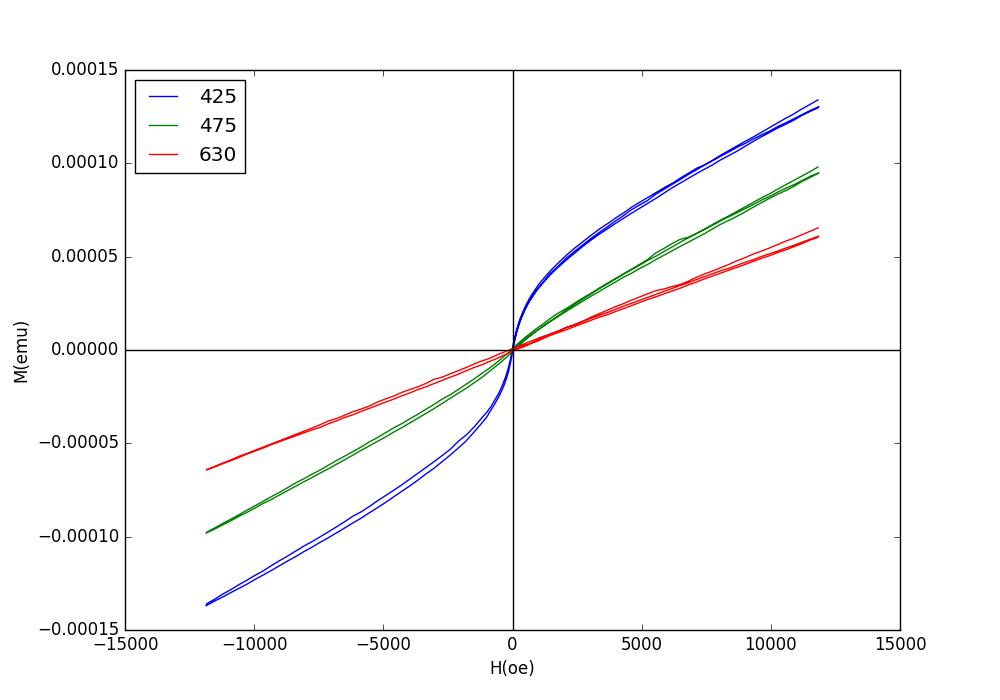
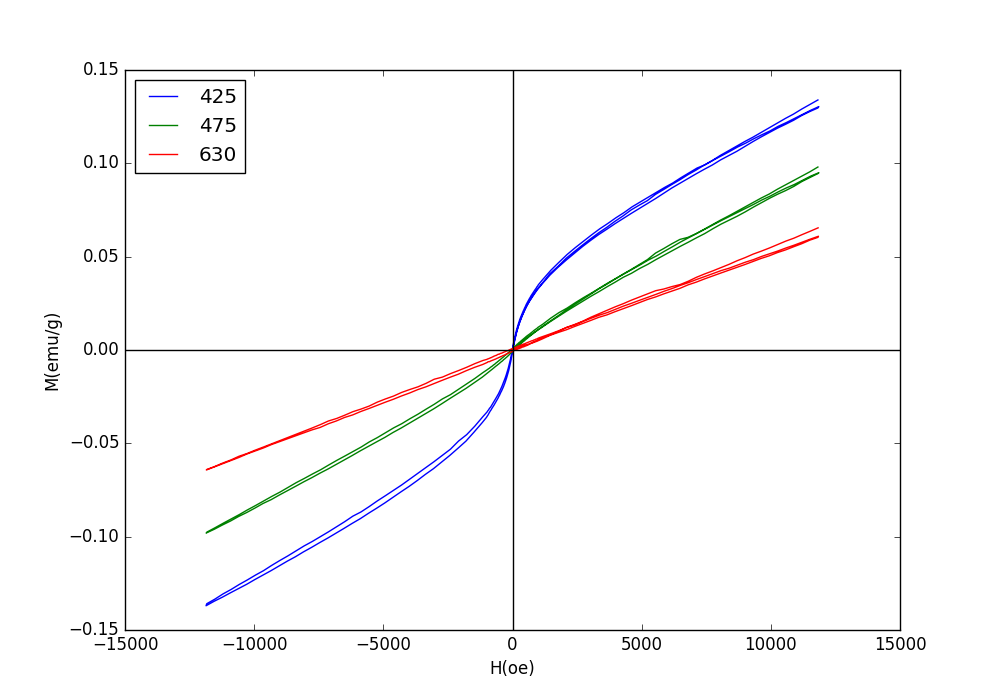
Arreglo de masa y adición de grafica de volores importes para las mediciones iniciales

diff --git a/Mediciones iniciales/analisis.py b/Mediciones iniciales/analisis.py
@@ -4,9 +4,10 @@ import matplotlib.pyplot as plt
 from sklearn.linear_model import LinearRegression
 
 #Masa en mg
-m=np.array([50.7,50.2,43.2])
+m=np.array([50.7,50.2,43.2])*0.001
 
 tem=np.array(['425','475','630'])
+temN=np.array([425,475,630])
 nomMedicion1= 'Data/BFO_'
 nomMedicion2 ='_SV_300K_MvsH_011018.txt'
 
@@ -29,7 +30,8 @@ def calPendiente(field, momentum):
 
 #Hallamos la coercitividad
 def calCoercitividad(field, momentum):
-	momentumTem = np.abs(momentum)
+	#Quitamos los primeros datos para no considerar la liena inicial
+	momentumTem = np.abs(momentum[20:])
 	pos1 = np.argmin(momentumTem)
 	momentumTem[pos1] = np.inf
 	pos2 = np.argmin(momentumTem)
@@ -40,7 +42,7 @@ def calCoercitividad(field, momentum):
 
 #Hallamos la magnetización remanente.
 def calMagRemanente(field, momentum):
-	fieldTem = np.abs(field)
+	fieldTem = np.abs(field[20:])
 	pos1 = np.argmin(fieldTem)
 	fieldTem[pos1] = np.inf
 	pos2 = np.argmin(fieldTem)
@@ -69,28 +71,62 @@ for i in range(3):
 	coercitividadIzq[i], coercitividadDer[i], ancho[i] = calCoercitividad(fieldT, momentumT)
 	magRemanente[i] =calMagRemanente(fieldT, momentumT)
 	magSaturacion[i] = calMagSaturacion(fieldT, momentumT)
-	
 
 plt.axhline(0, color='black')
 plt.axvline(0, color='black')
 plt.xlabel('H(oe)')
-plt.ylabel(u'M(emu)')
+plt.ylabel('M(emu/g)')
 plt.legend(loc="upper left")
 #plt.ylim(-0.000001,0.000001)
 #plt.xlim(-100,100)
 plt.savefig("Plots/MvsH.png" )
 plt.close()
 
+	
+plt.figure(figsize=(9,6.5))
 plt.axhline(0, color='black')
 plt.axvline(0, color='black')
 for i in range(3):
 	plt.plot(campo[20:,i], magnetizacion[20:,i], label = tem[i])
 plt.xlabel('H(oe)')
-plt.ylabel(u'M(emu)')
+plt.ylabel('M(emu/g)')
 plt.legend(loc="upper left")
-plt.ylim(-0.000001,0.000001)
+plt.ylim(-0.0015,0.0015)
 plt.xlim(-150,150)
 plt.savefig("Plots/ZoomMvsH.png" )
 plt.close()
+
+f, axes = plt.subplots(2, 2, sharex=True,figsize=(18,10) )
+
+axes[0, 0].scatter(temN, coercitividadDer, c='black')
+axes[0, 0].set_title('Coercitividad')
+axes[0,0].set_ylabel('H (oe)')
+axes[0, 0].axvline(temN[0], color='blue')
+axes[0, 0].axvline(temN[1], color='green')
+axes[0, 0].axvline(temN[2], color='red')
+
+axes[0,1].set_ylim(0,0.000018)
+axes[0, 1].scatter(temN, pendiente, c='black')
+axes[0, 1].set_title('Pendiente ')
+axes[0,1].set_ylabel('(emu/oe g)')
+axes[0, 1].axvline(temN[0], color='blue')
+axes[0, 1].axvline(temN[1], color='green')
+axes[0, 1].axvline(temN[2], color='red')
+
+axes[1, 0].scatter(temN, magRemanente)
+axes[1, 0].set_title('Remanente')
+axes[1, 0].set_ylabel('M(emu/g)')
+axes[1, 0].axvline(temN[0], color='blue')
+axes[1, 0].axvline(temN[1], color='green')
+axes[1, 0].axvline(temN[2], color='red')
+
+axes[1, 1].scatter(temN, magSaturacion)
+axes[1, 1].set_title('Saturación')
+axes[1, 1].set_ylabel('M(emu/g)')
+axes[1, 1].axvline(temN[0], color='blue')
+axes[1, 1].axvline(temN[1], color='green')
+axes[1, 1].axvline(temN[2], color='red')
+
+plt.savefig("Plots/valores.png")
 
 

diff --git a/15Ciclos/analisis.py b/15Ciclos/analisis.py
@@ -42,7 +42,8 @@ def calPendiente(field, momentum):
 
 #Hallamos la coercitividad
 def calCoercitividad(field, momentum):
-	momentumTem = np.abs(momentum)
+	#Quitamos los primeros datos para no considerar la liena inicial
+	momentumTem = np.abs(momentum[20:])
 	pos1 = np.argmin(momentumTem)
 	momentumTem[pos1] = np.inf
 	pos2 = np.argmin(momentumTem)
@@ -107,7 +108,7 @@ plt.figure(figsize=(11, 7))
 plt.plot(ciclos, pendienteAfter, c = "red", label ="Después")
 plt.plot(ciclos, pendienteBefore, c = "green", label ="Antes")
 plt.xlabel('Número de ciclos')
-plt.ylabel(u'Pendiente')
+plt.ylabel(u'Pendiente (emu/g oe)')
 plt.legend()
 plt.savefig("Plots/630penvscic.png")
 plt.close()
